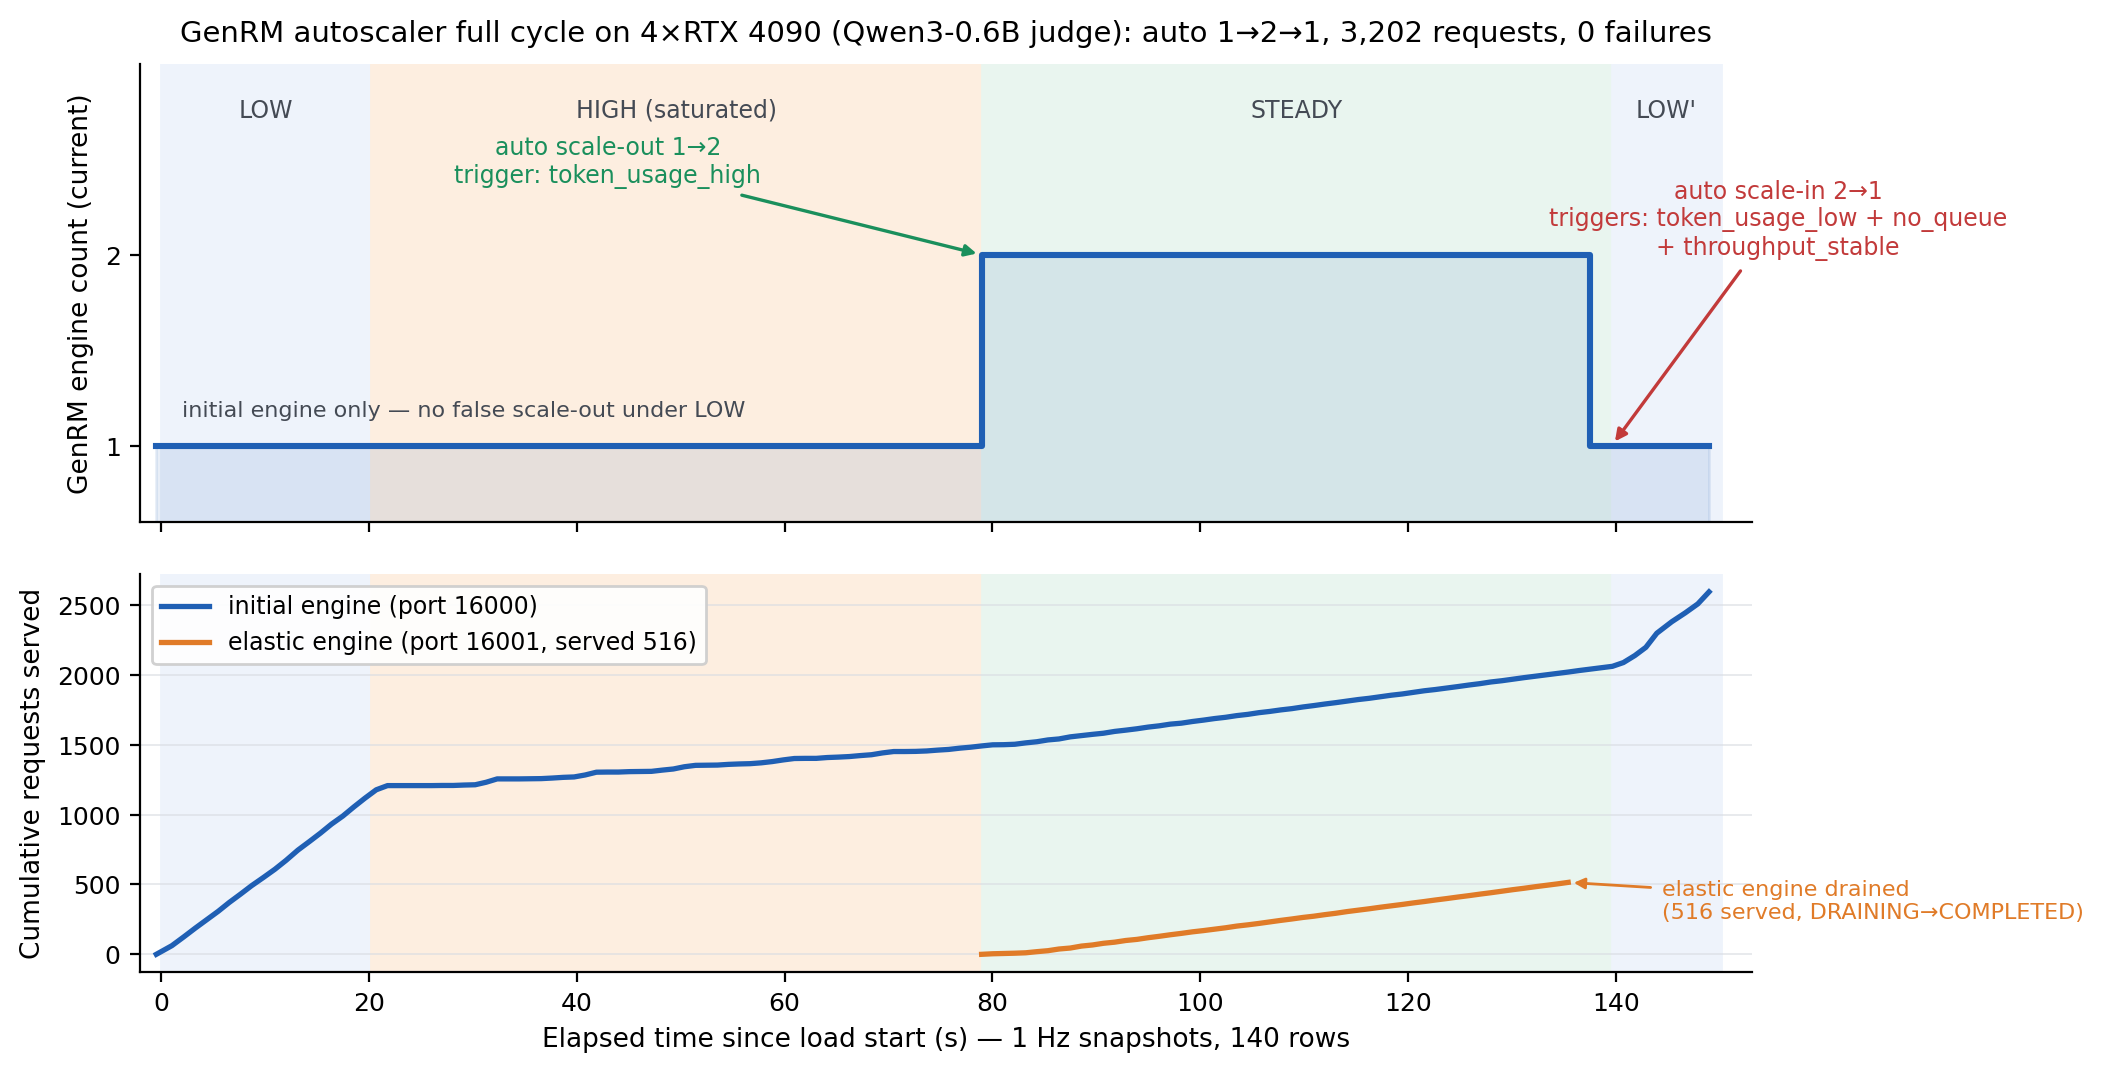
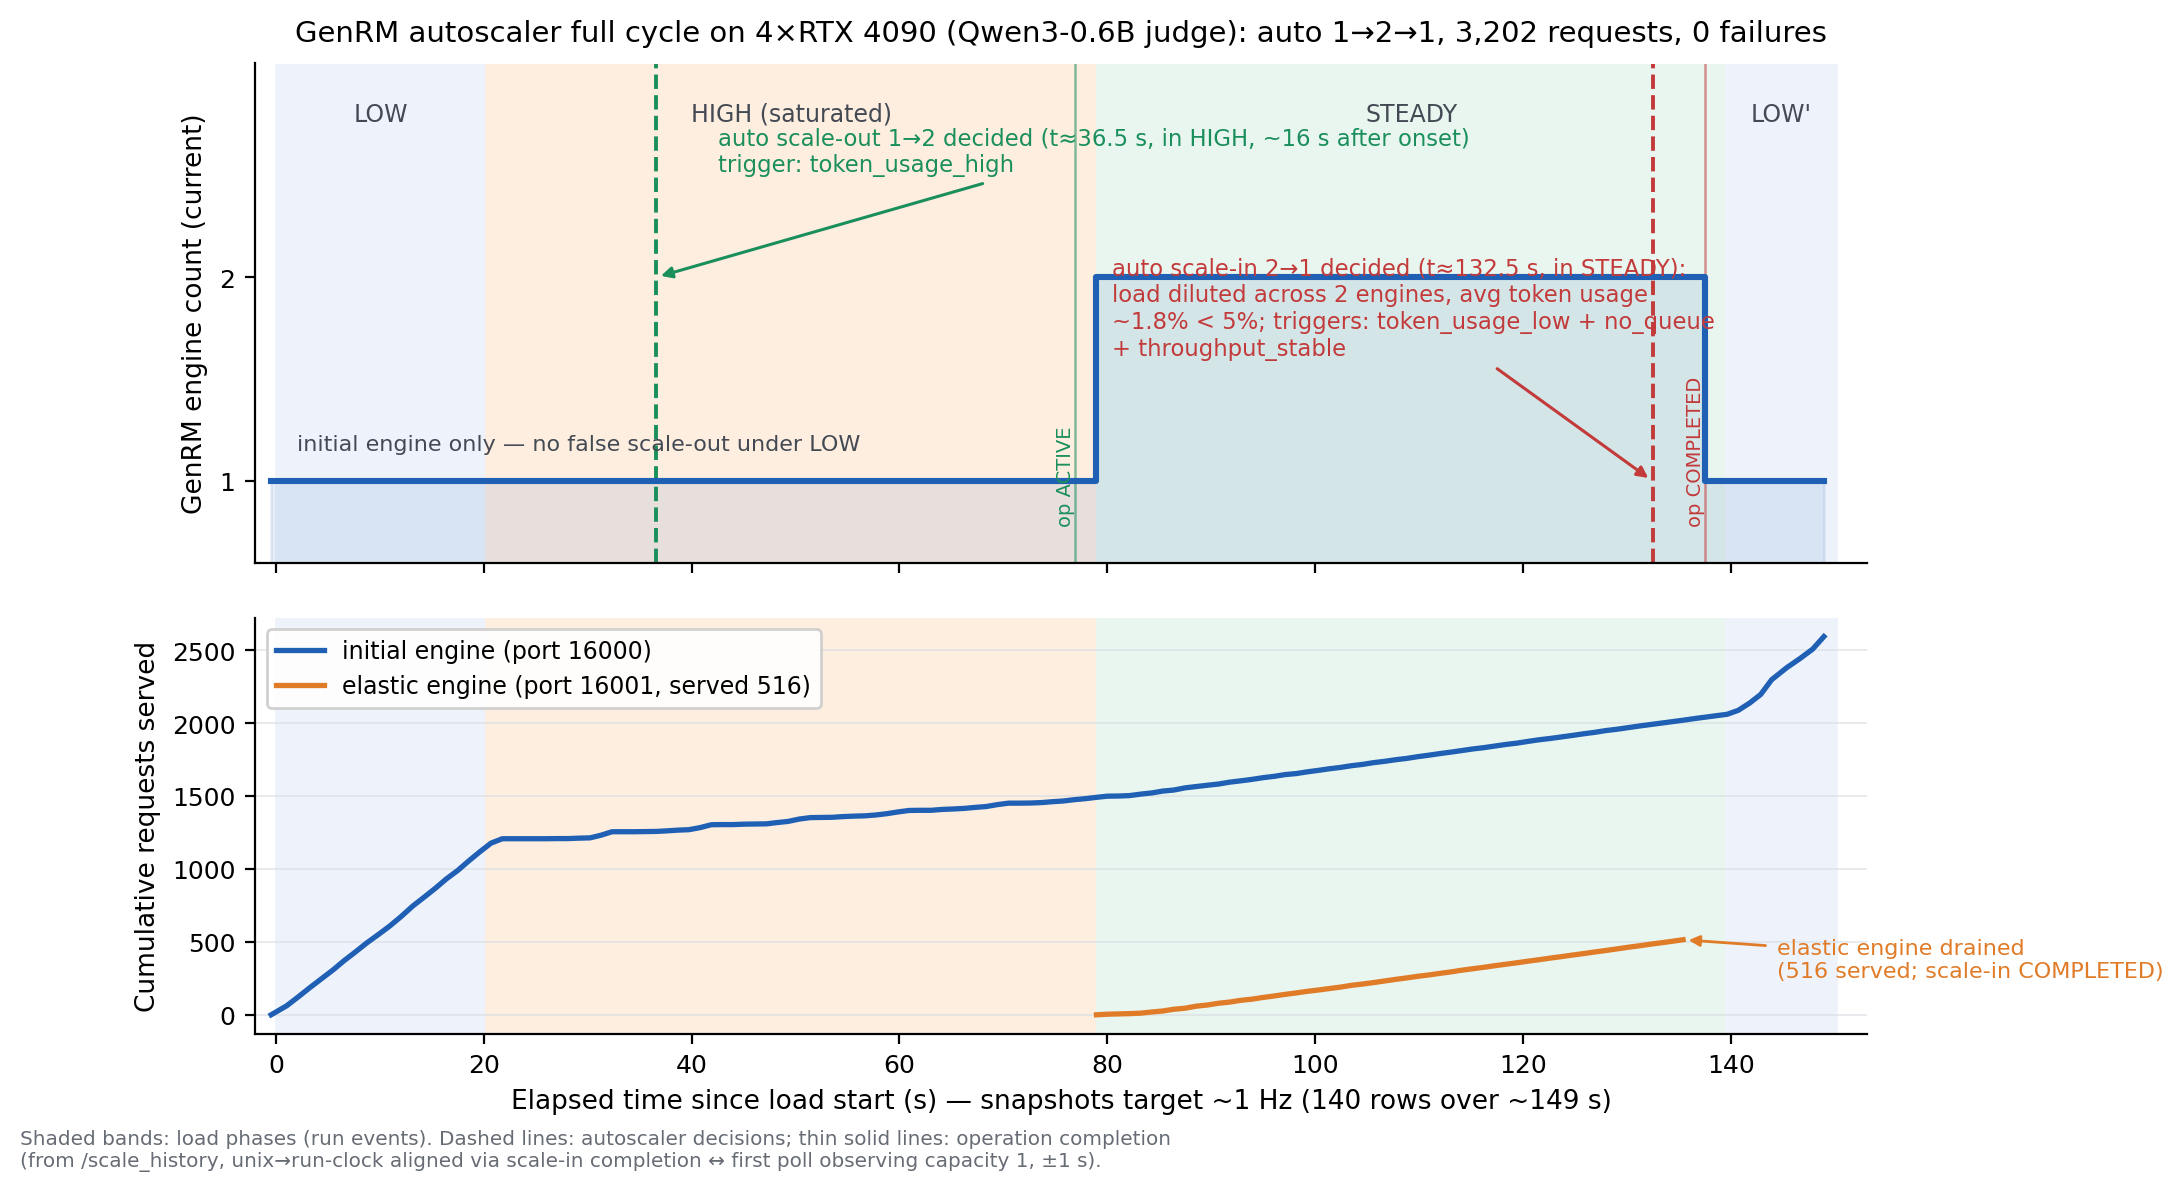
docs(task4): mark decision and completion times from scale_history in the timeline chart

diff --git a/demos/task4_genrm/results/autoscaler_run_20260924_v3/plot_timeline.py b/demos/task4_genrm/results/autoscaler_run_20260924_v3/plot_timeline.py
@@ -1,8 +1,15 @@
 # Copyright (c) 2026 Relax Authors. All Rights Reserved.
 """Plot the autoscaler full-cycle timeline from autoscaler_run_20260924_v3 raw data.
 
-Inputs : timeline.json (1 Hz capacity snapshots), events.json (phase boundaries)
+Inputs : timeline.json (capacity snapshots, target ~1 Hz), events.json (phase
+         boundaries), scale_history.json (decision/completion unix timestamps)
 Output : timeline-chart.png (committed next to the raw data it renders)
+
+Time axes are relative to the load start (events.json ``load_started``).
+Decision/completion times come from /scale_history (unix epoch) and are mapped
+to the run clock by aligning the scale-in completion with the first timeline
+poll that observed capacity back at 1 (poll interval ~1 s, so +/-1 s).
+Load-phase boundaries come from run events, NOT from poll discovery times.
 """
 
 import json
@@ -12,13 +19,15 @@ import matplotlib
 
 matplotlib.use("Agg")
 import matplotlib.pyplot as plt
-from matplotlib.patches import FancyArrowPatch
 
 HERE = os.path.dirname(os.path.abspath(__file__))
 timeline = json.load(open(os.path.join(HERE, "timeline.json")))
 events = json.load(open(os.path.join(HERE, "events.json")))
+scale_history = json.load(open(os.path.join(HERE, "scale_history.json")))
 
-T0 = 74.6  # load_started
+T0 = next(e["t"] for e in events if e["event"] == "load_started")
+so = next(h for h in scale_history if h["action"] == "scale_out")
+si = next(h for h in scale_history if h["action"] == "scale_in")
 
 
 def t(ev_name):
@@ -28,12 +37,27 @@ def t(ev_name):
     return None
 
 
-t_low_done = t("phase_low_done")
-t_high_done = t("phase_high_result")
-t_steady_done = t("phase_low_prime_result")
+# Load-phase boundaries (run events).
+t_low_done = t("phase_low_done")          # end of LOW
+t_high_done = t("phase_high_result")      # end of HIGH (confirmed scale-out)
+t_steady_done = t("phase_steady_done")    # end of STEADY
 t_load_stop = t("load_stopped")
 
-# capacity series
+# Decision/completion times from /scale_history, unix -> run clock via the
+# scale-in-completion <-> first-poll-observing-1 anchor (+/-1 s).
+seen2 = False
+t_poll_back_to_1 = None
+for row in timeline:
+    if row["current"] == 2:
+        seen2 = True
+    elif seen2 and row["current"] == 1:
+        t_poll_back_to_1 = row["t"]
+        break
+offset = t_poll_back_to_1 - si["completed_at"]
+so_decision, so_completion = so["triggered_at"] + offset - T0, so["completed_at"] + offset - T0
+si_decision, si_completion = si["triggered_at"] + offset - T0, si["completed_at"] + offset - T0
+
+# Capacity + per-engine series.
 ts, cap = [], []
 served_init, served_elastic = [], []
 for row in timeline:
@@ -43,16 +67,17 @@ for row in timeline:
     served_init.append(per.get(16000, None))
     served_elastic.append(per.get(16001, None))
 
-# elastic engine served count: events.json is authoritative (timeline snapshots at 1 Hz can miss the last request)
+# Elastic engine served count: events.json is authoritative (timeline snapshots
+# at ~1 Hz can miss the last request).
 elastic_total = next(e["elastic_served"] for e in events if e["event"] == "phase_steady_done")
 
 C_BLUE, C_ORANGE, C_GREEN, C_RED, C_GRAY = "#1f5fb4", "#e07b28", "#1a8f5c", "#c23a3a", "#8a8f98"
 
 fig, (ax1, ax2) = plt.subplots(
-    2, 1, figsize=(10.4, 5.9), sharex=True, gridspec_kw={"height_ratios": [1.15, 1], "hspace": 0.12}
+    2, 1, figsize=(10.4, 6.3), sharex=True, gridspec_kw={"height_ratios": [1.2, 1], "hspace": 0.12}
 )
 
-# ---- panel 1: capacity ----
+# ---- panel 1: capacity, load phases, decisions, completions ----
 phases = [
     (0, t_low_done, "LOW", "#eef3fb"),
     (t_low_done, t_high_done, "HIGH (saturated)", "#fdeee0"),
@@ -62,27 +87,34 @@ phases = [
 for x0, x1, name, color in phases:
     ax1.axvspan(x0, x1, color=color, zorder=0)
     ax2.axvspan(x0, x1, color=color, zorder=0)
-    ax1.text((x0 + x1) / 2, 2.82, name, ha="center", va="top", fontsize=8.5, color="#444a54")
+    ax1.text((x0 + x1) / 2, 2.86, name, ha="center", va="top", fontsize=8.5, color="#444a54")
 
 ax1.step(ts, cap, where="post", color=C_BLUE, lw=2.2, zorder=3)
 ax1.fill_between(ts, cap, step="post", color=C_BLUE, alpha=0.10, zorder=2)
-ax1.set_ylim(0.6, 3.0)
+ax1.set_ylim(0.6, 3.05)
 ax1.set_yticks([1, 2])
 ax1.set_ylabel("GenRM engine count (current)", fontsize=9.5)
 ax1.tick_params(labelsize=9)
 
-t_so, t_si = t_high_done, t_steady_done
+# Decision times: dashed vlines. Completion times: thin solid vlines.
+ax1.axvline(so_decision, color=C_GREEN, ls="--", lw=1.4, zorder=2)
+ax1.axvline(si_decision, color=C_RED, ls="--", lw=1.4, zorder=2)
+ax1.axvline(so_completion, color=C_GREEN, ls="-", lw=0.9, alpha=0.55, zorder=2)
+ax1.axvline(si_completion, color=C_RED, ls="-", lw=0.9, alpha=0.55, zorder=2)
+ax1.text(so_completion, 0.78, "op ACTIVE", rotation=90, fontsize=7, color=C_GREEN, ha="right", va="bottom")
+ax1.text(si_completion, 0.78, "op COMPLETED", rotation=90, fontsize=7, color=C_RED, ha="right", va="bottom")
+
 ax1.annotate(
-    "auto scale-out 1\u21922\ntrigger: token_usage_high",
-    xy=(t_so, 2), xytext=(t_so - 36, 2.38),
-    fontsize=8.5, color=C_GREEN, ha="center",
-    arrowprops=dict(arrowstyle="-|>", color=C_GREEN, lw=1.2),
+    "auto scale-out 1\u21922 decided (t\u224836.5 s, in HIGH, ~16 s after onset)\ntrigger: token_usage_high",
+    xy=(so_decision, 2), xytext=(so_decision + 6, 2.52),
+    fontsize=8.2, color=C_GREEN, ha="left",
+    arrowprops=dict(arrowstyle="-|>", color=C_GREEN, lw=1.1),
 )
 ax1.annotate(
-    "auto scale-in 2\u21921\ntriggers: token_usage_low + no_queue\n+ throughput_stable",
-    xy=(t_si, 1), xytext=(t_si + 16, 2.0),
-    fontsize=8.5, color=C_RED, ha="center",
-    arrowprops=dict(arrowstyle="-|>", color=C_RED, lw=1.2),
+    "auto scale-in 2\u21921 decided (t\u2248132.5 s, in STEADY):\nload diluted across 2 engines, avg token usage\n~1.8% < 5%; triggers: token_usage_low + no_queue\n+ throughput_stable",
+    xy=(si_decision, 1), xytext=(si_decision - 52, 1.62),
+    fontsize=8.2, color=C_RED, ha="left",
+    arrowprops=dict(arrowstyle="-|>", color=C_RED, lw=1.1),
 )
 ax1.text(2, 1.13, "initial engine only \u2014 no false scale-out under LOW", fontsize=8, color="#444a54", va="bottom")
 ax1.set_title(
@@ -96,15 +128,14 @@ el_ts = [x for x, s in zip(ts, served_elastic) if s is not None]
 el_s = [s for s in served_elastic if s is not None]
 ax2.plot(el_ts, el_s, color=C_ORANGE, lw=1.9, label=f"elastic engine (port 16001, served {elastic_total})")
 ax2.set_ylabel("Cumulative requests served", fontsize=9.5)
-ax2.set_xlabel(f"Elapsed time since load start (s) \u2014 1 Hz snapshots, {len(ts)} rows", fontsize=9.5)
+ax2.set_xlabel(f"Elapsed time since load start (s) \u2014 snapshots target ~1 Hz ({len(ts)} rows over ~{ts[-1]-ts[0]:.0f} s)", fontsize=9.5)
 ax2.set_xlim(-2, t_load_stop + 3)
 ax2.legend(loc="upper left", fontsize=8.5, framealpha=0.9)
 ax2.tick_params(labelsize=9)
 ax2.grid(axis="y", color="#d8dce2", lw=0.6, alpha=0.7)
 
-# elastic-engine annotation on its curve end
 ax2.annotate(
-    f"elastic engine drained\n(516 served, DRAINING\u2192COMPLETED)",
+    "elastic engine drained\n(516 served; scale-in COMPLETED)",
     xy=(el_ts[-1], el_s[-1]), xytext=(el_ts[-1] + 9, el_s[-1] - 260),
     fontsize=8, color=C_ORANGE,
     arrowprops=dict(arrowstyle="-|>", color=C_ORANGE, lw=1.0),
@@ -114,7 +145,16 @@ for ax in (ax1, ax2):
     for spine in ("top", "right"):
         ax.spines[spine].set_visible(False)
 
+fig.text(
+    0.012, 0.005,
+    "Shaded bands: load phases (run events). Dashed lines: autoscaler decisions; thin solid lines: operation completion\n"
+    "(from /scale_history, unix\u2192run-clock aligned via scale-in completion \u2194 first poll observing capacity 1, \u00b11 s).",
+    fontsize=7.2, color="#666b74",
+)
+
 fig.savefig(os.path.join(HERE, "timeline-chart.png"), dpi=200, bbox_inches="tight", facecolor="white")
 print("written", os.path.join(HERE, "timeline-chart.png"))
-print("phases:", [round(p, 1) for p in (t_low_done, t_high_done, t_steady_done, t_load_stop)])
-print("elastic_total:", elastic_total, "timeline rows:", len(ts))
+print(f"phases end at: LOW {t_low_done:.1f}, HIGH {t_high_done:.1f}, STEADY {t_steady_done:.1f}, stop {t_load_stop:.1f}")
+print(f"scale_out: decision {so_decision:.3f} completion {so_completion:.3f} (dur {so['completed_at']-so['triggered_at']:.1f}s)")
+print(f"scale_in:  decision {si_decision:.3f} completion {si_completion:.3f} (dur {si['completed_at']-si['triggered_at']:.1f}s)")
+print(f"scale-in inside STEADY: {t_high_done < si_decision and si_completion < t_steady_done}")
